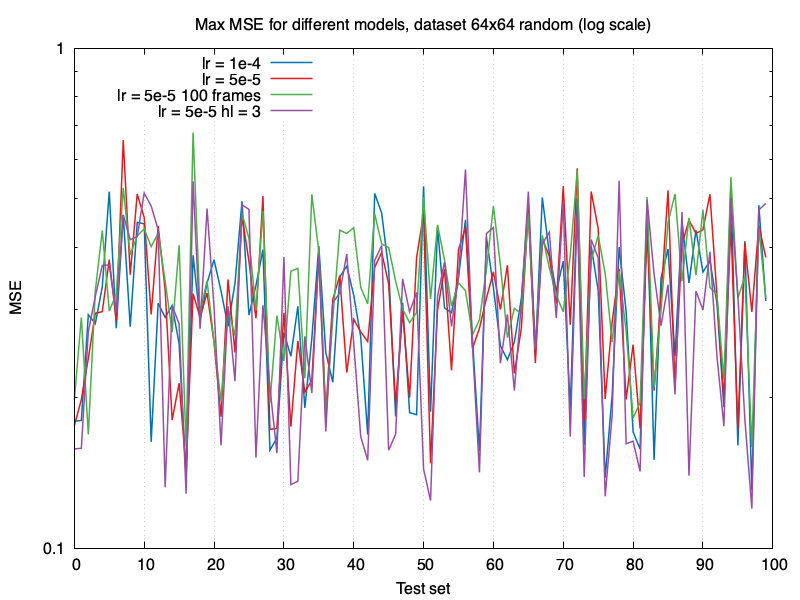
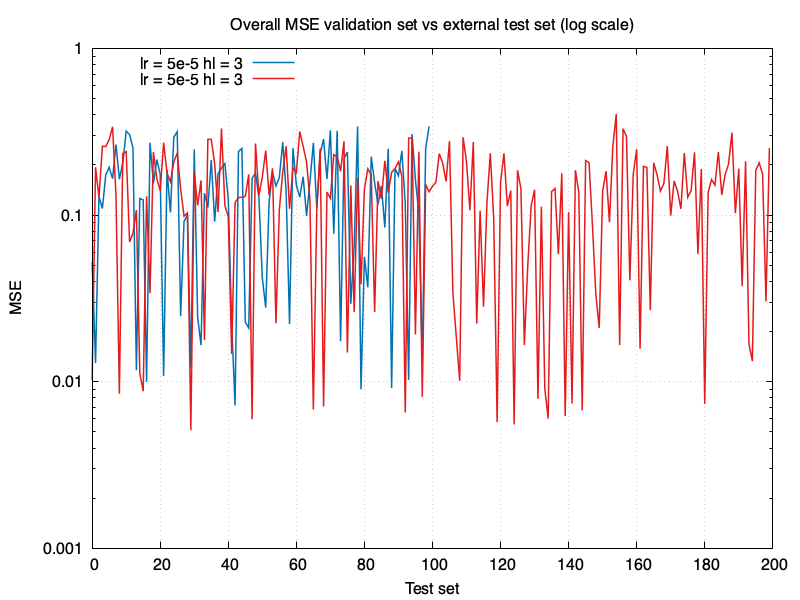
plot di confronto loss ed errori

diff --git a/machine_learning/testing+error_script.py b/machine_learning/testing+error_script.py
@@ -31,10 +31,10 @@ NUM_NPY : int = 100
 NUM_EVO : int = 25000
 
 # <<< SCRIPT VARIABLES <<<
-MODEL_PATH      : str   = '/home/fiorello/master_thesis/machine_learning/train/train_logs/test_lr_5e-5/model/epoch_480.pt' # model
-SEQUENCE_TABLE  : str   = '/data/fiorello/external_test_128_random/testing_set.txt'
+MODEL_PATH      : str   = '/home/fiorello/master_thesis/machine_learning/train/train_logs/lr_5e-5_hl_3_128/model/epoch_259.pt' # model
+SEQUENCE_TABLE  : str   = '/data/fiorello/external_test_64_random/testing_set.txt'
 IMG_SIZE        : int   = 64 # resizing dimension of images in dataset
-OUTPUT_FOLDER   : str   = '/data/fiorello/external_test_128_random/test_lr_5e-5'#' # output folder name
+OUTPUT_FOLDER   : str   = '/data/fiorello/external_test_64_random/test_lr_5e-5_hl_3_train128'#' # output folder name
 CUDA            : bool  = True # cuda control variable
 DELTA_PNG       : int   = 1  # output frequency for png. DO NOT SET TO < 1
 
@@ -43,7 +43,7 @@ DELTA_PNG       : int   = 1  # output frequency for png. DO NOT SET TO < 1
 
 # <<< MODEL VARIABLES <<<
 MIN_SEQ         : int                   = 1
-HIDDEN_UNITS    : int                   = 2 # cambia
+HIDDEN_UNITS    : int                   = 3 # cambia
 INPUT_CHANNELS  : int                   = 1 
 OUTPUT_CHANNELS : int                   = 1
 HIDDEN_CHANNELS : int                   = 16 # cambia

diff --git a/machine_learning/train/train_logs/best_epoch.py b/machine_learning/train/train_logs/best_epoch.py
@@ -16,6 +16,6 @@ def find_best_epoch(filename="test_lr_5e-5_hl_3/valid_loss.txt"):
 
 
 if __name__ == "__main__":
-    epoch, loss = find_best_epoch("test_lr_5e-5_hl_3/valid_loss.txt")
+    epoch, loss = find_best_epoch("lr_5e-5_hl_3_128/valid_loss.txt")
     print(f"Best epoch: {epoch-1}")
     print(f"Minimum validation loss: {loss}")
